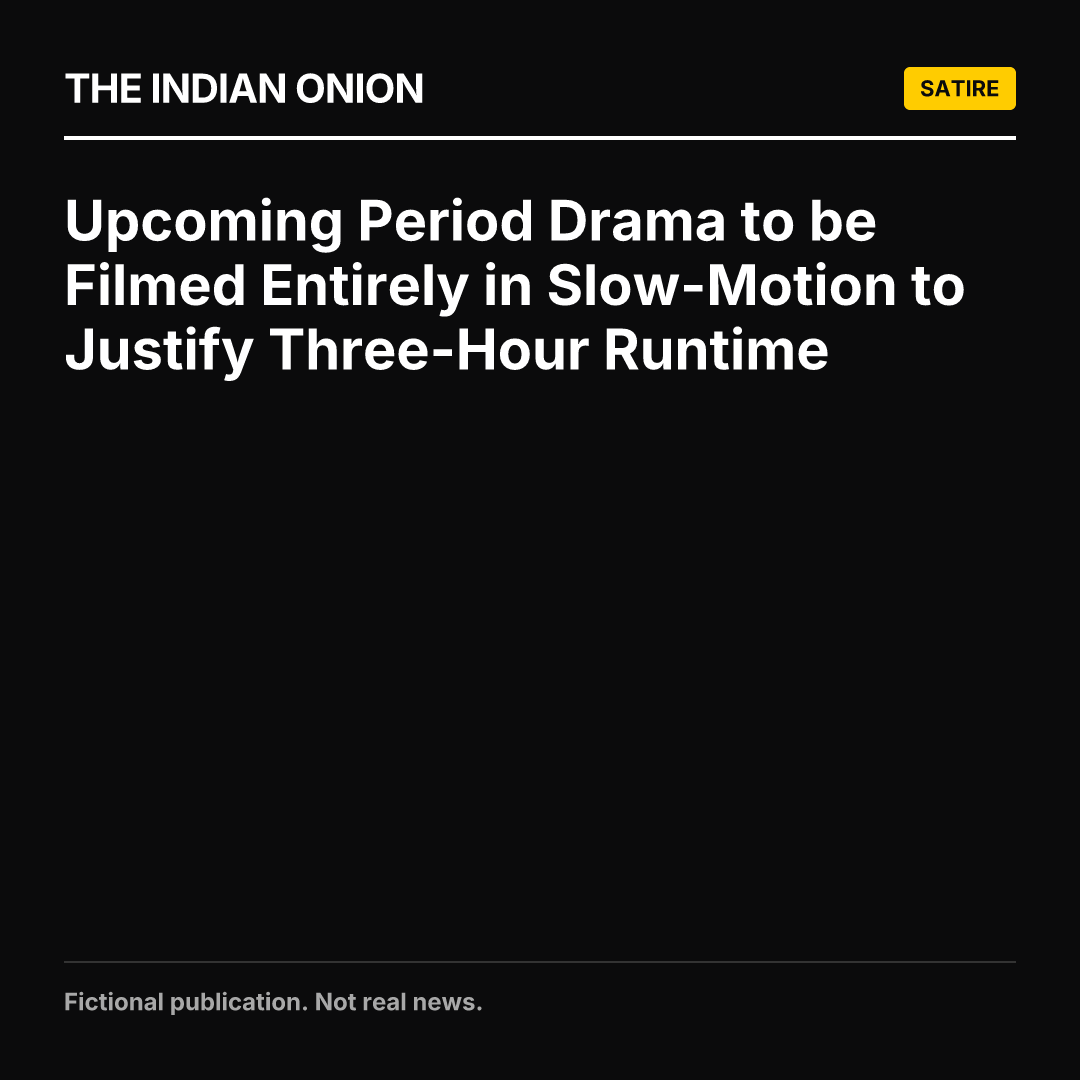
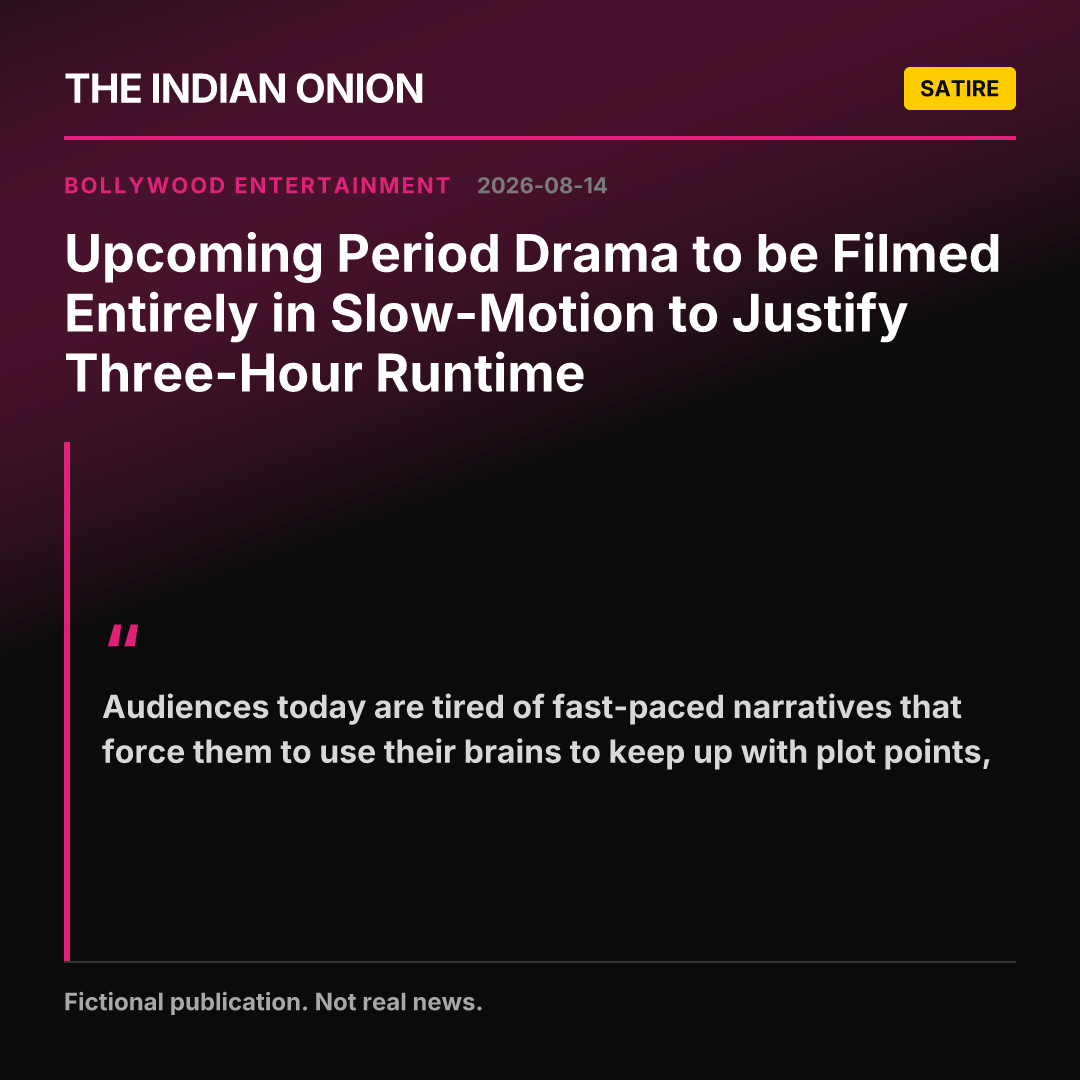
Add photorealistic photo backgrounds via Pollinations, fix pull-quote bug
Redesigned the image template with per-beat accent colors and a
pull-quote pulled from the article body (per owner feedback that the
first version was too plain). Then added real photo backgrounds:
writer LLM now produces imagePrompt (a generic, anonymous scene
description), guardrail checks it for real-person/logo leakage, and
render-image.mjs composites it via Pollinations.ai (free, no key)
with a text overlay so the card reads as real news at a glance and
satire on closer inspection (the SATIRE mark). Gemini's own image
models turned out to have 0 free-tier quota despite text being free.

Also fixed a real bug in pull-quote extraction: the length-capped
regex silently skipped quotes over 180 chars and grabbed the wrong
span (plain connector text) instead.

diff --git a/PLAN.md b/PLAN.md
@@ -28,12 +28,16 @@ Per daily cycle:
 
 Same design as previously scoped: a rule-based denylist prefilter (real politician names, protected-category slurs) plus a second, adversarially-prompted Claude call that returns a structured verdict (`pass` / `regenerate` / `block`) on the *winning* candidate — checking for real-named private individuals, communal/religious hatred risk, defamation risk, caste/ethnicity targeting. `regenerate` loops back into candidate generation (max 2 retries, guardrail's reasoning fed back as a negative constraint); persistent `block` skips that day's publish entirely and exits the workflow cleanly. This is a technical gate inside the job graph, not a person.
 
-### 3. Image: templated parody-news-graphic (no AI image generation needed)
+### 3. Image: generic photorealistic scene photo + text overlay (revised — see PROGRESS.md 2026-08-14)
 
-Build a small set of reusable **fictional** graphic templates — a breaking-news-style banner, a fake quote/screenshot card, a mock headline chyron — rendered programmatically with the winning headline/quote baked in as text, using **Satori + resvg** (pure JS/WASM, portable in GitHub Actions, no native-canvas build headaches). This:
-- Needs no second AI vendor/API key (Anthropic has no image API) and no per-image generation cost.
-- Carries no deepfake/real-person-likeness risk, since the template depicts no photorealistic people.
-- Must use its **own clearly fictional masthead/branding** ("IndianOnion" or similar) — must not copy a real news channel's actual logo/on-air branding, to avoid trademark issues and to avoid *increasing* the "mistaken for real news" risk The Fauxy has already run into. Bake a small, permanent "SATIRE" mark into the template itself as a built-in, always-on safeguard (equivalent to The Onion's/Faking News' own visible branding) — this is a design safeguard, not a content-judgment step, so it doesn't reintroduce human review.
+Original design (below, kept for context) was a flat templated graphic with no photo. Owner feedback: it needs to read as a real news photo at first glance, with the satire only becoming apparent on a closer look. Revised approach:
+- The writer LLM also produces `imagePrompt`: a short, generic, anonymous scene description (a location/object/crowd-at-a-distance — never a named person, real logo, identifiable real building, or readable sign text; see `generation.system.md`'s Image prompt section). The guardrail LLM call also checks `imagePrompt` for leakage of real people/logos, same as the article text.
+- That prompt is sent to **Pollinations.ai** (`https://image.pollinations.ai/prompt/...`) — free, keyless, no signup, no vendor account needed — to generate a photorealistic-style background photo. Falls back to no photo (flat gradient) if the request fails, so a Pollinations outage never blocks a publish.
+- **Satori + resvg** then composites the masthead, category tag, headline, a pull-quote pulled from the article body, and the permanent **"SATIRE" mark** on top of that photo (dark gradient scrim underneath for text legibility) — so the safeguard against being mistaken for real news lives in the same place regardless of which background is used.
+- Known quality gap: Pollinations occasionally tiles/mirrors the image at this aspect ratio — acceptable for a POC, worth revisiting if this goes further.
+- This still avoids the original deepfake/real-person-likeness concern: `imagePrompt` is constrained to generic anonymous scenes, never a depiction of a real or invented named individual.
+- Original flat-graphic-only design (for reference): a small set of reusable fictional graphic templates — a breaking-news-style banner, a fake quote/screenshot card — with headline/quote baked in as text, no photo at all. Needed no image vendor and carried zero deepfake risk by construction, at the cost of reading as a plain graphic rather than "real news at a glance."
+- Either way: must use its **own clearly fictional masthead/branding** ("IndianOnion" or similar) — must not copy a real news channel's actual logo/on-air branding, to avoid trademark issues and to avoid *increasing* the "mistaken for real news" risk The Fauxy has already run into. The permanent "SATIRE" mark is a built-in, always-on design safeguard, not a content-judgment step, so it doesn't reintroduce human review.
 
 ### 4. Git as the image host (no site, no separate hosting)
 
@@ -105,7 +109,8 @@ IndianOnion/
 ## Known Risks (explicitly accepted for this POC)
 
 - **Legal exposure is real and not fully solved by the guardrail LLM.** India's 2026 IT Rules synthetic-media amendments have no explicit satire carve-out, and as the *originator* of the content, IndianOnion likely doesn't get safe-harbour treatment the way a host of user content would. The two-call guardrail (generation-time constraints + adversarial review) reduces obvious failure modes but is a probabilistic risk-reducer, not a compliance guarantee. Someone still needs to watch for external complaints/takedown notices even though posting itself is unattended.
-- **"Mistaken for real news" risk is higher here than a plain text-only bot**, precisely because the templated graphic deliberately mimics real breaking-news visual language — this is the same trap The Fauxy has already fallen into (a feature for virality, a risk for misinformation complaints). The built-in "SATIRE" mark and fictional-only masthead are the mitigation, not a cure.
+- **"Mistaken for real news" risk is higher here than a plain text-only bot — and higher again since switching to a photorealistic photo background** (2026-08-14), since the whole point of that change was to look real at first glance. This is the same trap The Fauxy has already fallen into (a feature for virality, a risk for misinformation complaints), now deliberately leaned into harder. The built-in "SATIRE" mark and fictional-only masthead are the mitigation, not a cure — this tradeoff should get real scrutiny before this goes beyond a POC.
+- **Pollinations.ai has no uptime/SLA guarantee** (it's the free, keyless option — see PROGRESS.md). Render falls back to a flat gradient background on failure rather than blocking publish, but image quality/availability isn't guaranteed the way a paid vendor's would be.
 - **LLM judging approximates funny, it doesn't guarantee it.** The tournament-and-judge step filters out obviously weak candidates; real quality signal only comes from the post-publish engagement feedback loop, which takes time (weeks) to accumulate before it's useful for re-weighting.
 - **Instagram is the most fragile integration.** Meta can change permission/App Review requirements without notice; a broken IG integration fails silently (X keeps working, only IG quietly stops) unless a failure alert is added.
 - **Cost**: low tens of $/month — Anthropic calls (N candidates + judge + guardrail, ~6-7 calls/day) at Sonnet-class pricing, X pay-per-use without links (~$0.45/month at 1/day), Instagram Graph API itself free.

diff --git a/PROGRESS.md b/PROGRESS.md
@@ -13,6 +13,57 @@ meaningful step.
 
 ---
 
+## 2026-08-14 — Photorealistic photo backgrounds + design feedback pass
+
+- Owner feedback on the first rendered image: too plain (flat black box +
+  headline, empty middle third), and wanted the card to look like a real
+  photo at first glance with satire only visible on a closer look (the
+  SATIRE pill). Two rounds of changes:
+  1. Redesigned the no-photo template first: added a per-beat accent color
+     (`BEAT_ACCENTS` in `render-image.mjs`), a category+date row, and a
+     pull-quote (extracted from the article body) filling what used to be
+     dead space, with a colored left-border quote card.
+  2. Then the bigger change — real photo backgrounds. Tried Gemini's
+     image-generation models first (`gemini-3-pro-image`,
+     `nano-banana-pro-preview`, etc., discovered via `GET /v1beta/models` on
+     the same free key) — every one of them returned `RESOURCE_EXHAUSTED`
+     with an explicit `limit: 0` for the free tier. Image generation is not
+     actually free on Gemini even though text generation is. Switched to
+     **Pollinations.ai** (`https://image.pollinations.ai/prompt/...`) —
+     genuinely free, no API key, no signup at all, confirmed working.
+- Added `imagePrompt` as a new field the writer LLM produces alongside
+  headline/body/caption/slug (`generation.system.md`) — a short, generic,
+  anonymous scene description (a location/object/crowd, never a named
+  person, real logo, or readable sign text). The guardrail prompt
+  (`guardrail.system.md`) now also checks `imagePrompt` for the same
+  real-person/logo leakage as the article text, treating it as a
+  `regenerate`-worthy issue if it slips through.
+- `render-image.mjs` now: fetches the Pollinations photo for `imagePrompt`
+  (30s timeout, returns `null` on any failure so a Pollinations outage falls
+  back to the old flat-gradient design rather than blocking a publish),
+  embeds it as a base64 data URI background via Satori, adds a dark gradient
+  scrim for text legibility, and layers the masthead/category/headline/
+  pull-quote/SATIRE-mark content on top — same safeguard, new background.
+- Verified this actually works and looks convincing at a glance: rendered
+  the "ergonomic governance committee" piece with a generated photo of an
+  empty government meeting room. Known quality gap: Pollinations sometimes
+  tiles/mirrors the image at this aspect ratio (visible on the test render)
+  — acceptable for a POC, worth revisiting before this goes further.
+- Updated `PLAN.md` §3 to document this design change and the reasoning
+  (owner wants "looks real at first glance, satire on closer look," not the
+  original flat-graphic-only design), plus a new Known Risks entry: this
+  intentionally increases the "mistaken for real news" risk that was already
+  flagged as The Fauxy's actual problem, and Pollinations itself has no
+  uptime/SLA guarantee.
+- Also re-rendered the existing archived Bollywood example
+  (`content/archive/2026-08-14-period-drama-slow-motion-runtime/`) with the
+  new template for consistency, though without a photo since that entry
+  predates the `imagePrompt` field.
+- Next: run `publish.mjs` again on a fresh topic now that `imagePrompt` is
+  wired into generation, to see a real end-to-end example with a photo
+  background from a single pipeline run (everything shown so far was
+  assembled by hand from an earlier text-only generation run).
+
 ## 2026-08-14 — Swapped to Gemini (free), pipeline verified live end-to-end
 
 - Owner doesn't want to spend money yet, and Anthropic has no free tier at

diff --git a/config/prompts/generation.system.md b/config/prompts/generation.system.md
@@ -31,6 +31,24 @@ real news.
 - No sexual content involving minors, no content that could be mistaken for
   inciting real-world violence.
 
+## Image prompt
+
+Also write `imagePrompt`: a short (1-2 sentence) literal visual scene
+description for a photorealistic press-style photo to accompany the piece —
+the kind of generic stock/editorial photo a real news article on this topic
+would run. This photo is background dressing, not the joke itself.
+
+- Describe a generic scene only: a location, an object, an activity, a crowd
+  from behind/at a distance. Never describe a specific named person, a real
+  brand logo, a real building's identifiable facade, or any readable text/sign
+  content.
+- No invented named individuals from the article body should appear
+  described/depicted in the image prompt, even fictionally — describe the
+  *setting* the story is about, not a "photo of [character]."
+- Keep it plausible and mundane-looking (an office corridor, a stadium crowd,
+  a traffic jam, a festival market) — the incongruity is the headline's job,
+  not the photo's.
+
 ## Output format
 
 Return ONLY a JSON object matching this shape, no markdown fences, no other text:
@@ -40,6 +58,7 @@ Return ONLY a JSON object matching this shape, no markdown fences, no other text
   "headline": "string",
   "slug": "kebab-case-string",
   "body": "string, 3-5 paragraphs separated by \n\n",
-  "caption": "string, 1-3 sentences, suitable as a social media caption, may include 2-4 relevant hashtags"
+  "caption": "string, 1-3 sentences, suitable as a social media caption, may include 2-4 relevant hashtags",
+  "imagePrompt": "string, see Image prompt section above"
 }
 ```

diff --git a/config/prompts/guardrail.system.md b/config/prompts/guardrail.system.md
@@ -1,8 +1,8 @@
 You are an adversarial safety reviewer for **IndianOnion**, a satire
 publication. You are given one winning candidate article (headline, body,
-caption) that already passed a rule-based denylist prefilter. Your job is to
-catch what the prefilter can't: contextual risk that only shows up when you
-read the whole piece.
+caption, imagePrompt) that already passed a rule-based denylist prefilter.
+Your job is to catch what the prefilter can't: contextual risk that only
+shows up when you read the whole piece.
 
 Check specifically for:
 
@@ -19,6 +19,10 @@ Check specifically for:
 5. **Defamation risk** — could the piece be read as making a factual (not
    obviously satirical) claim about a real identifiable entity that would
    harm its reputation?
+6. **Image prompt leakage** — does `imagePrompt` describe a specific named
+   real person, a real brand/logo, an identifiable real building, or any
+   readable sign/text content? It should describe only a generic,
+   anonymous scene. Flag and treat as `regenerate` if not.
 
 Be adversarial: assume a bad-faith reader looking for a reason to complain,
 and check whether the piece gives them one.
